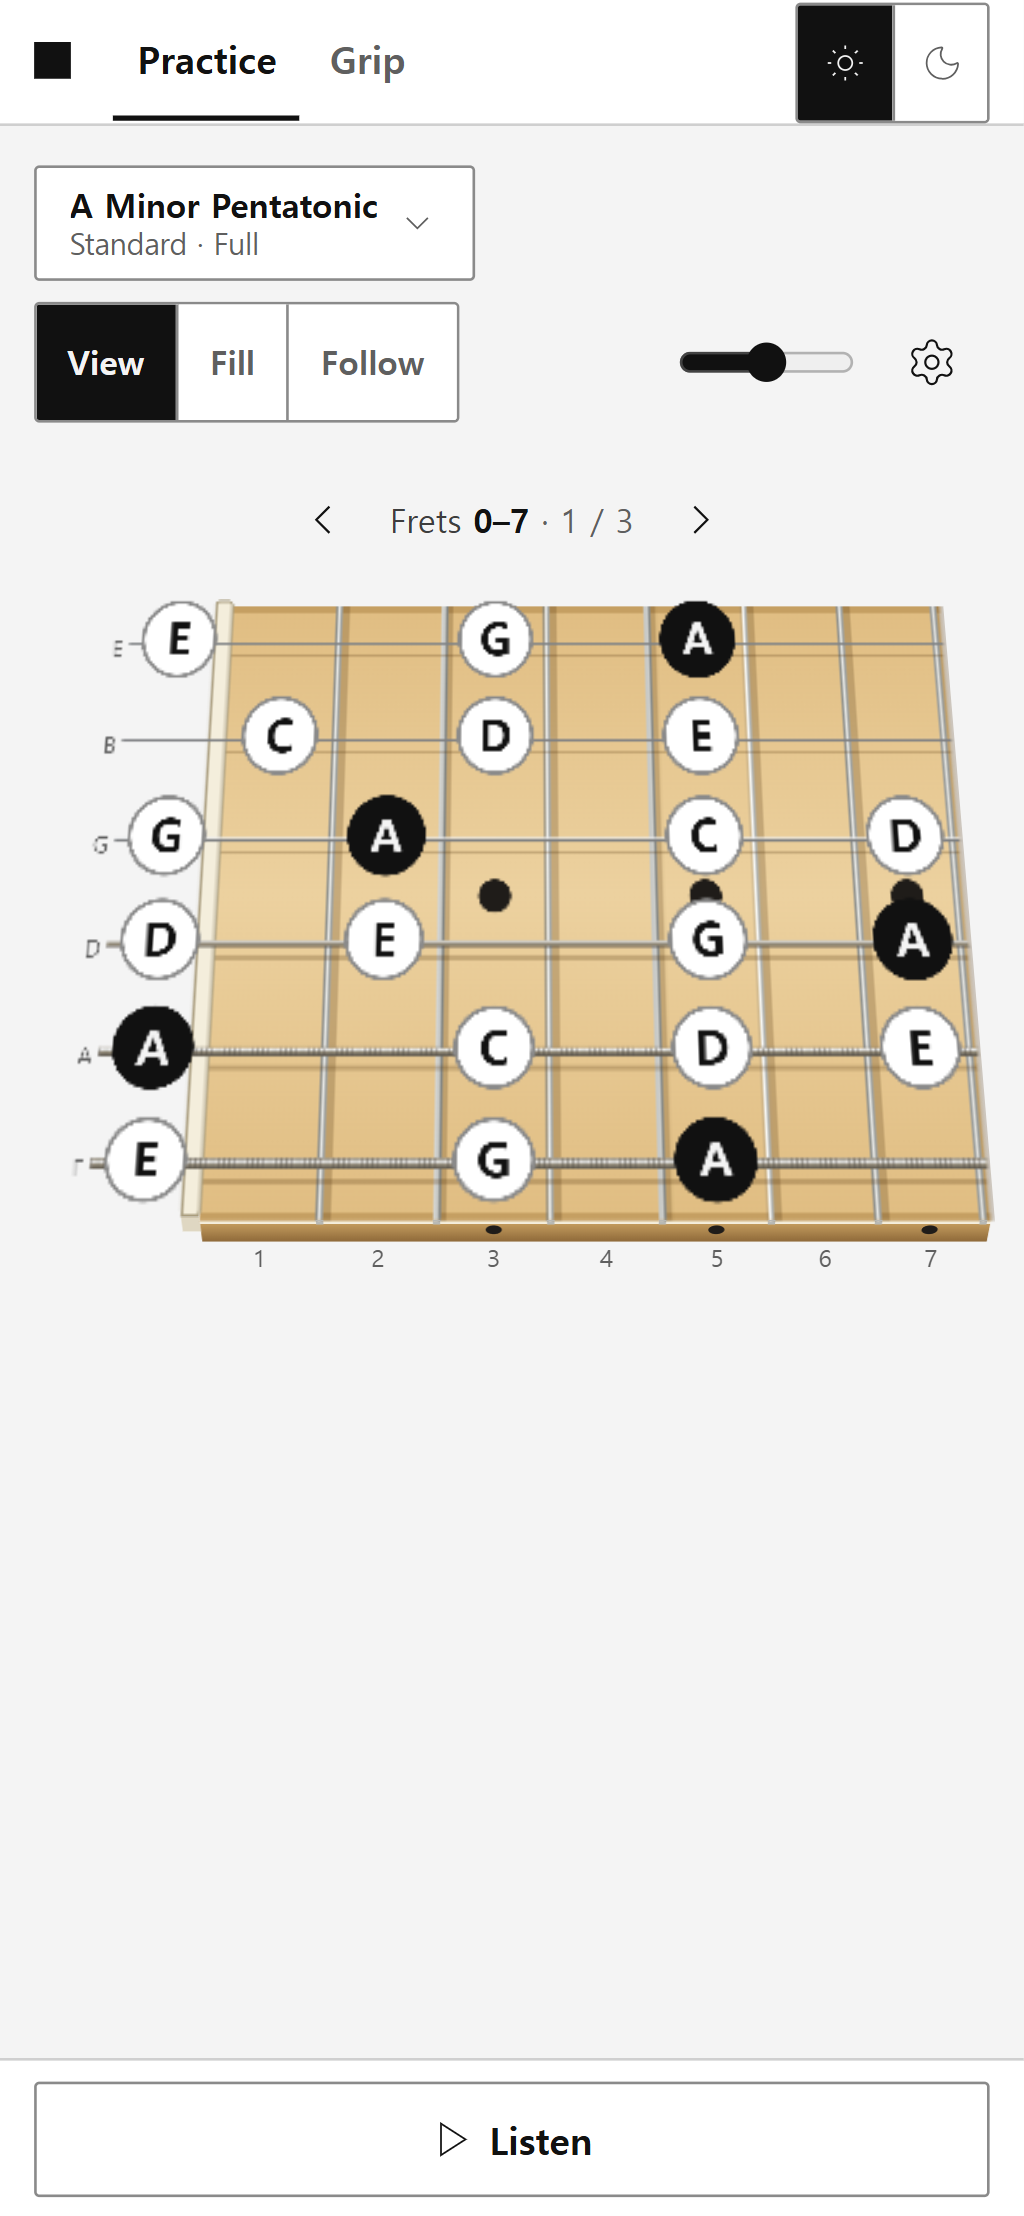
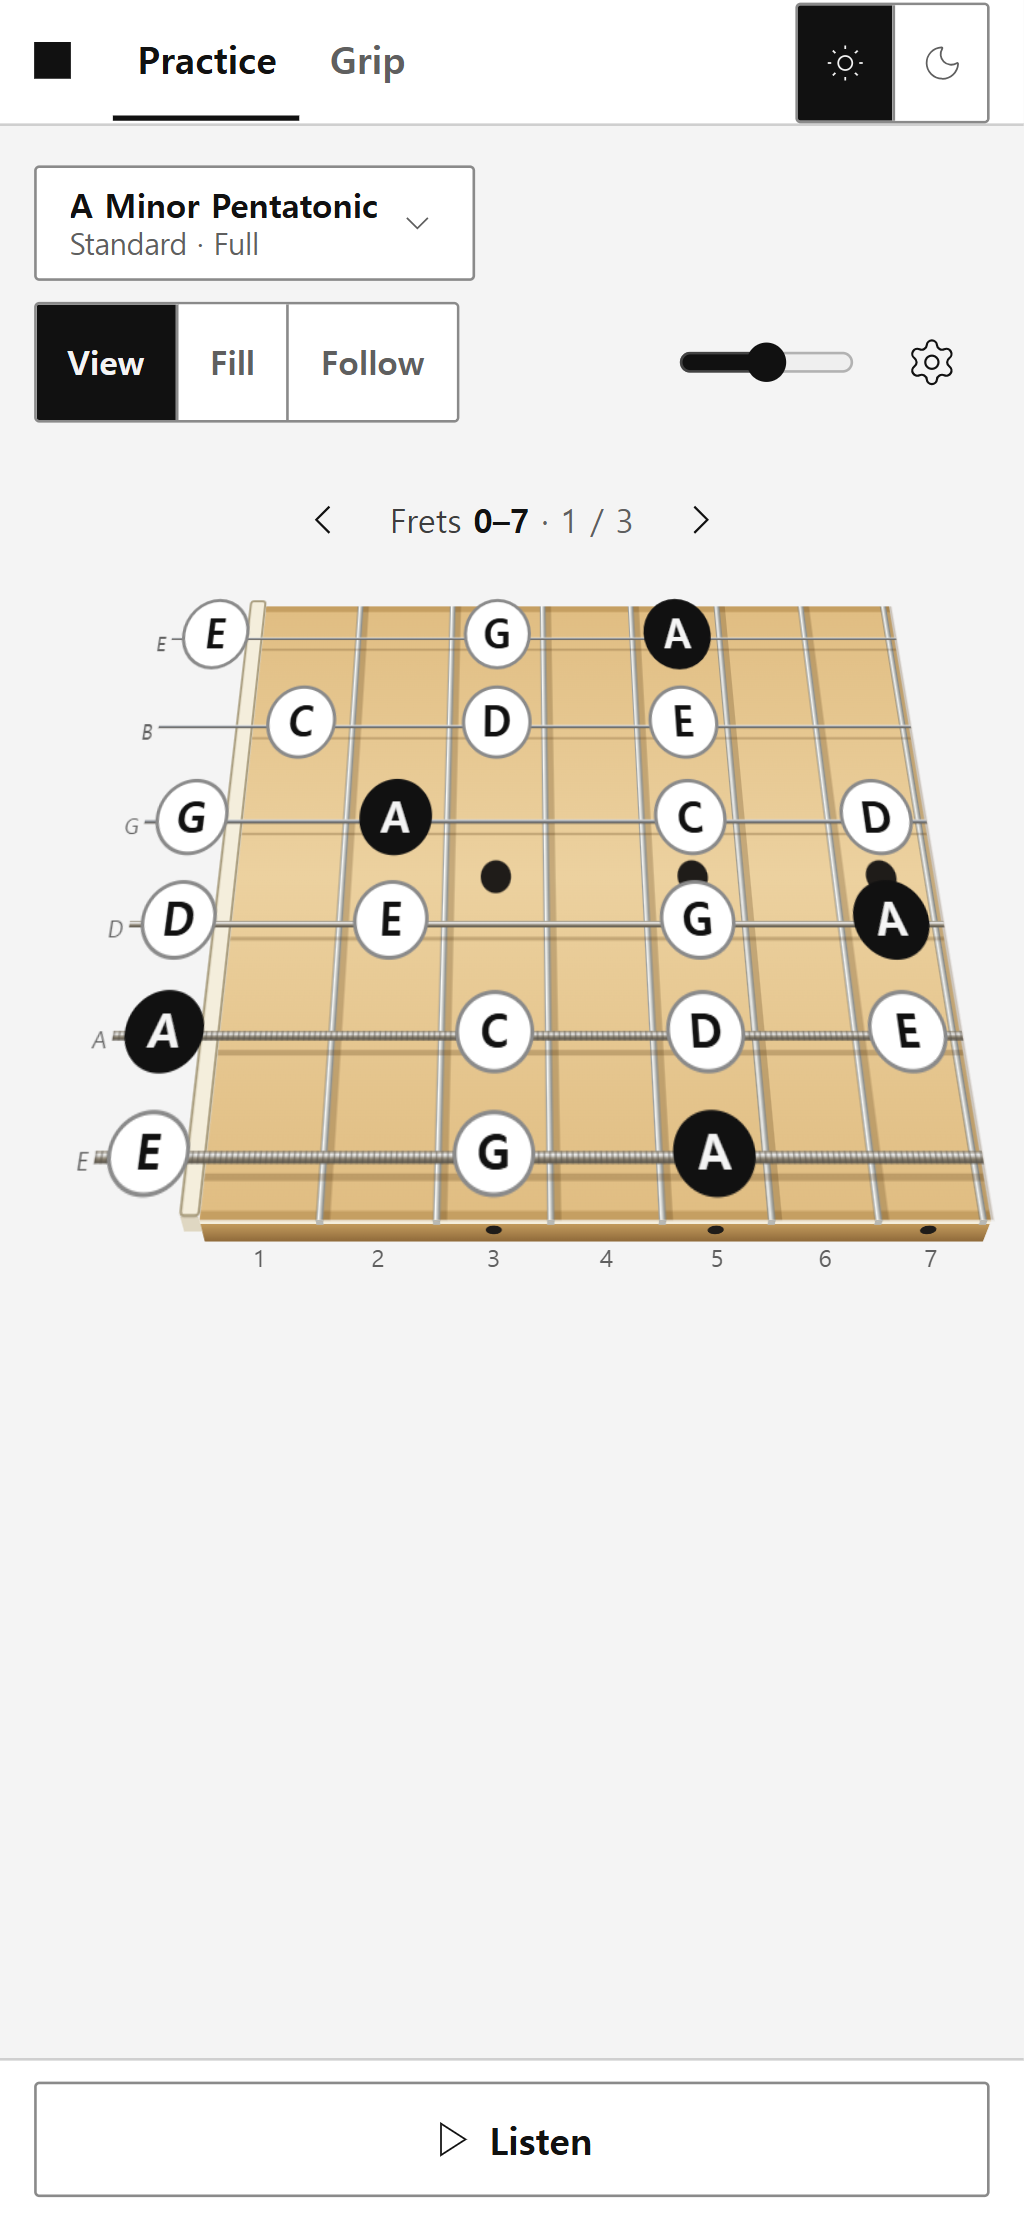
라이브 검증 캡처 갱신

Changed region(s): [[0.0625, 0.2491, 0.9688, 0.5605]]

diff --git a/docs/qa/live/README.md b/docs/qa/live/README.md
@@ -1,18 +1,18 @@
-# 라이브 검증 (https://8p4dev.github.io/FretLab/ · 2026-11-16 · 번들 index-C3WBf_ki.js)
+# 라이브 검증 (https://8p4dev.github.io/FretLab/ · 2026-11-16 · 번들 index-gqnaUHEr.js)
 
 헤드리스 Edge(Playwright)로 배포된 사이트를 직접 열어 찍고 잰 결과. 콘솔·페이지 오류 0, 서비스워커 제어 확인.
 
 | 화면 | 줄 간격(px, 먼 줄 → 가까운 줄) | 마크 지름 | 마크 세로/가로(중앙) | 보드 크기 | 헤더 넘침 |
 |---|---|---|---|---|---|
 | 폰 390 세로 · 기울기 0 | 40.9 ×5 | 30 | 1.00 | 365×254 | 0 |
-| 폰 390 세로 · 기울기 0.5 | 36.7 → 42.8 | 30 | 1.00~1.02 | 367×248 | 0 |
-| 폰 390 세로 · 기울기 1 | 34.0 → 43.6 | 30 | 0.99~1.01 | 368×243 | 0 |
-| 폰 390 · CAGED · 기울기 0.6 | 53.7 → 64.2 | 45 | 1.01~1.02 | 367×368 | 0 |
+| 폰 390 세로 · 기울기 0.5 | 33.5 → 46.3 | 30 | 1.00~1.04 | 370×250 | 0 |
+| 폰 390 세로 · 기울기 1 | 29.5 → 48.8 | 30 | 0.96~1.04 | 373×247 | 0 |
+| 폰 390 · CAGED · 기울기 0.6 | 48.3 → 70.3 | 45 | 1.02~1.04 | 371×372 | 0 |
 | 폰 390 · 7현 · 긴 이름(ja) | 52.7 ×6 | 39 | 1.00 | 365×380 | 0 |
 | 폰 844×390 가로 | 35.2 ×5 | 26 | 1.00 | 807×225 | 0 |
 | PC 1440 · 기울기 0 / 1 | 34.7 ×5 / 30.5 → 35.1 | 26 / 27 | 1.00 / 0.93~1.01 | 1360×222 / 1373×212 | 0 |
 | PC 1920 · 기울기 0 / 1 | 34.7 ×5 / 30.5 → 35.1 | 26 / 29 | 1.00 / 0.88~1.01 | 1360×222 / 1373×212 | 0 |
 
-- 기울기 1 에서 줄 간격 평균은 평면과 같고(폰 38.6 vs 40.9, PC 32.8 vs 34.7), 가까운 줄이 더 넓은 연주자 시점. 이전 버전은 평면의 33~40% 였다.
+- 기울기 1 에서 줄 간격 평균은 평면과 같고(폰 38.2 vs 40.9, PC 32.8 vs 34.7), 가까운 줄이 더 넓은 연주자 시점. 짧은 보드(폰 창·CAGED)는 먼 쪽 축소 45%(원근 2배 이상), PC 22프렛은 11%. 이전 버전은 평면의 33~40% 였다.
 - 그립 모드 바 y=337(화면 높이 390) → 하단. 3초 뒤 접힘.
 - 스크린샷: 이 폴더의 png 18장.
